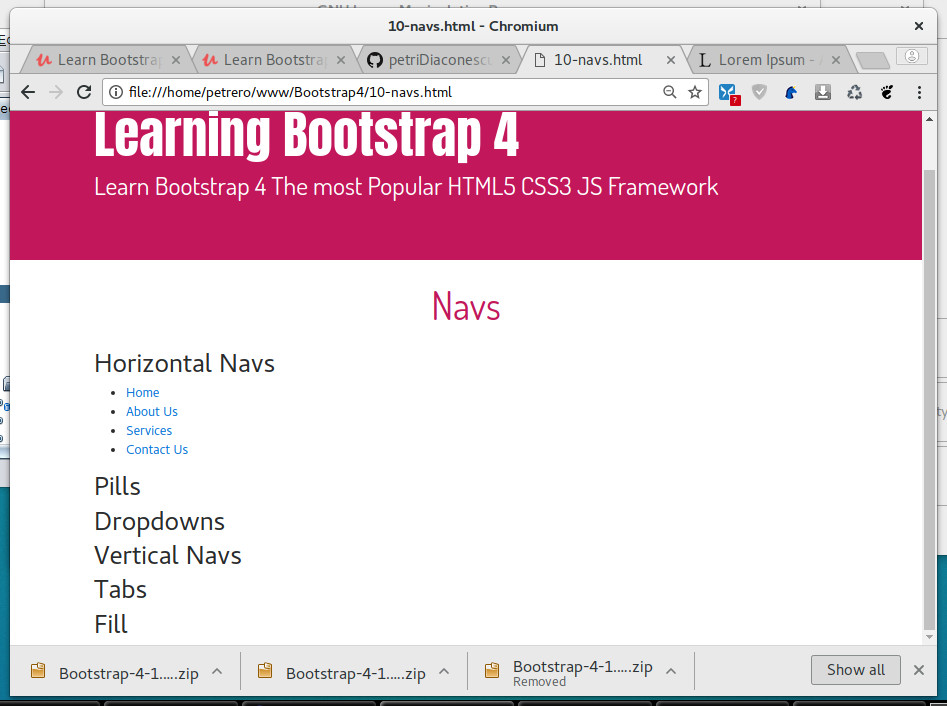
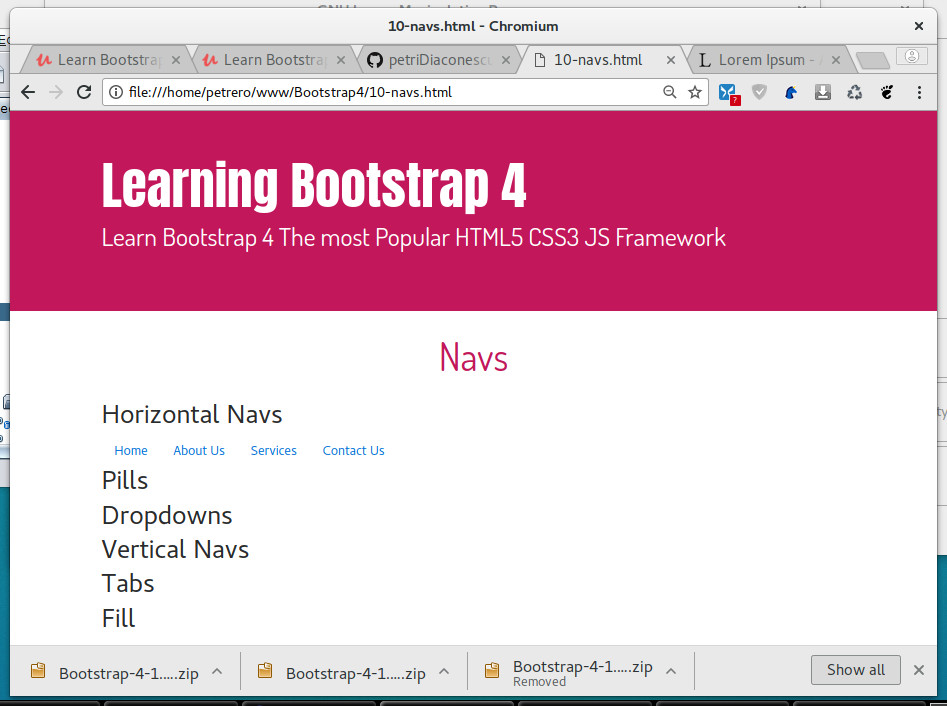
Align the navigation menu to the center of the page

diff --git a/10-navs.html b/10-navs.html
@@ -29,7 +29,7 @@
        <div class="col-12 " id="navs">
          <h2>Horizontal Navs</h2>
          <nav>
-           <ul class="nav">
+           <ul class="nav justify-content-center">
              <li class="nav-item">
                  <a class="nav-link" href="#">Home</a>
              </li>
